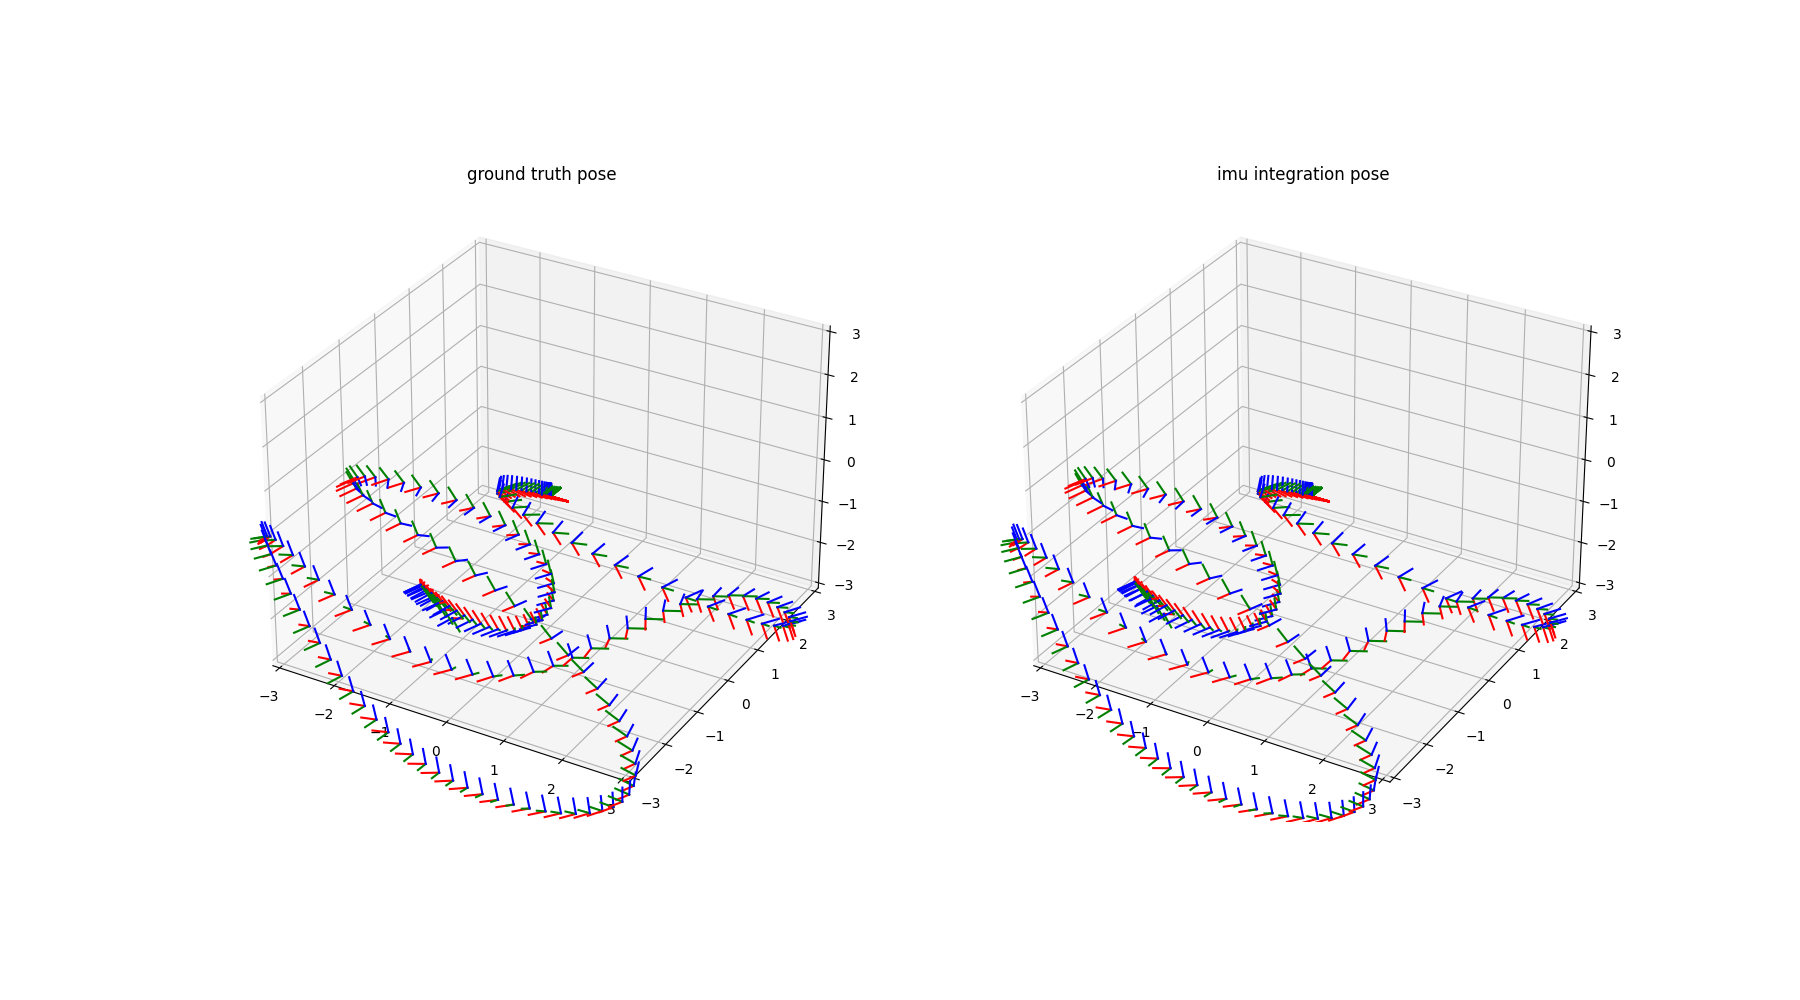
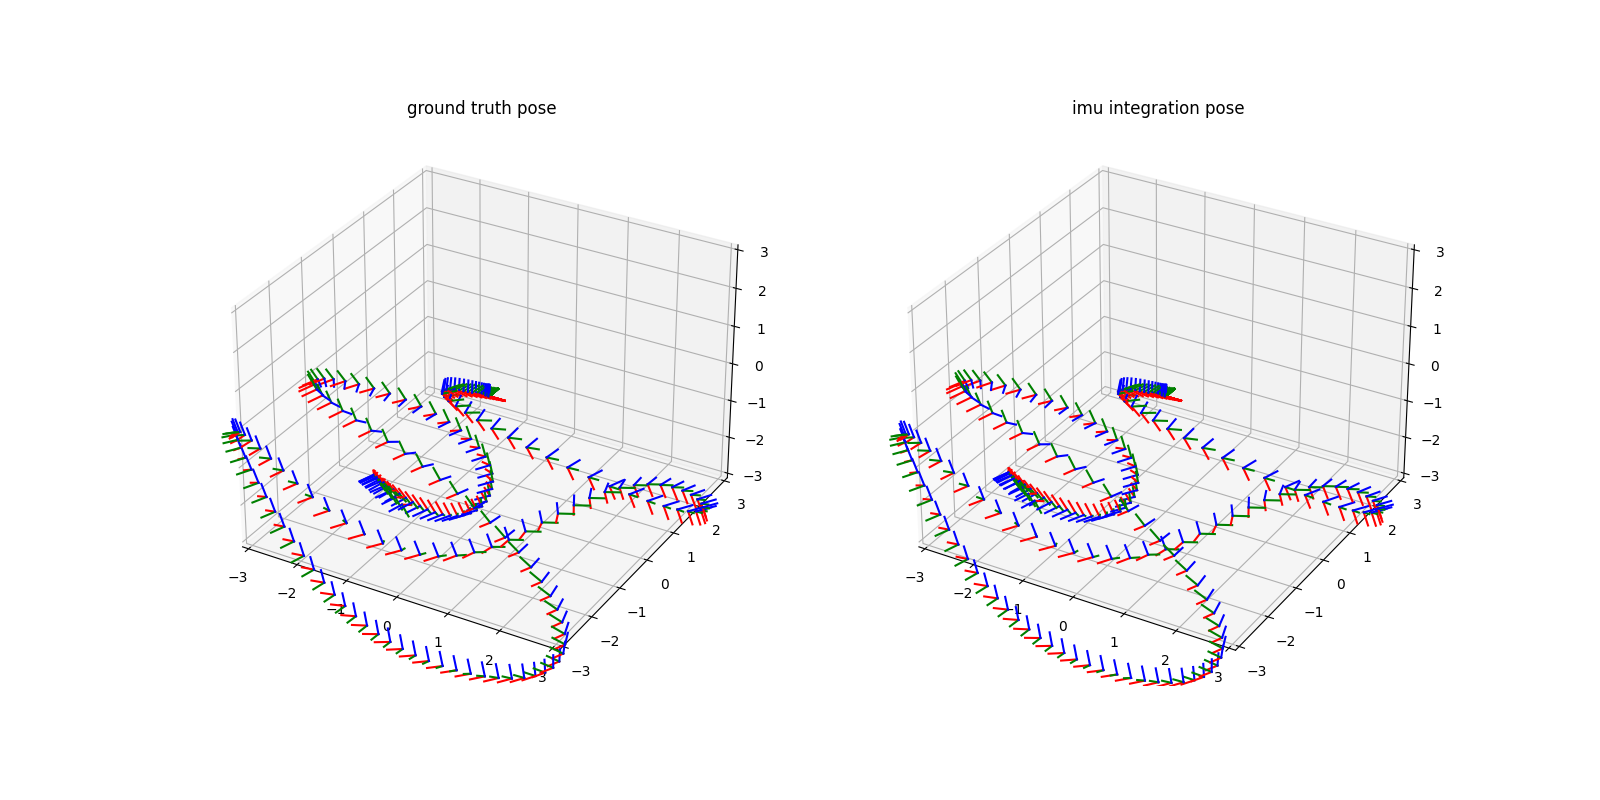
update readme

diff --git a/py/main.py b/py/main.py
@@ -75,7 +75,7 @@ def main():
             white_list.append(pose_name)
 
     ll = 3
-    fig = plt.figure(figsize=(18, 10))
+    fig = plt.figure(figsize=(16, 8))
     ax0 = fig.add_subplot(121, projection='3d')
     ax1 = fig.add_subplot(122, projection='3d')
 
@@ -102,7 +102,7 @@ def main():
     ax1.set_zlim((-ll, ll))
     # ax1.view_init(elev=0, azim=0, vertical_axis='y')
     ax1.set_title('imu integration pose')
-    # plt.savefig("pose.png")
+    # plt.savefig("image/pose.png")
     plt.show()
 
 

diff --git a/README.md b/README.md
@@ -1,1 +1,6 @@
 # imu-study
+<img src="/image/pose.png" width="800" />
+
+```sh
+python py/main.py
+```
